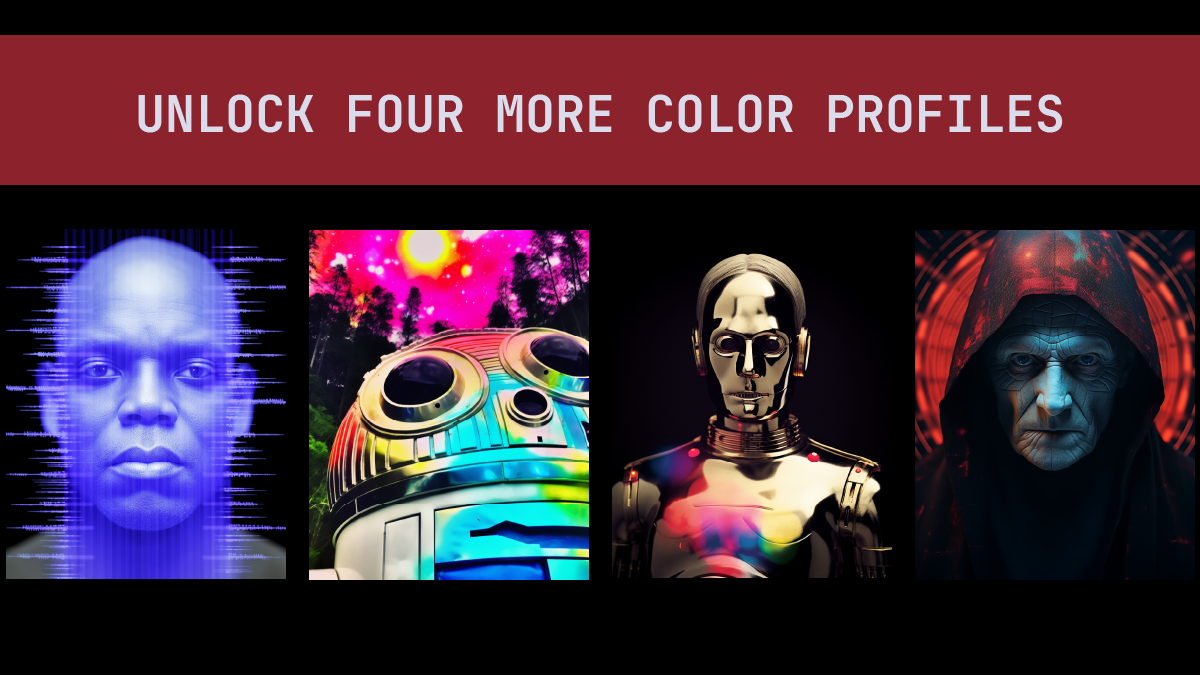
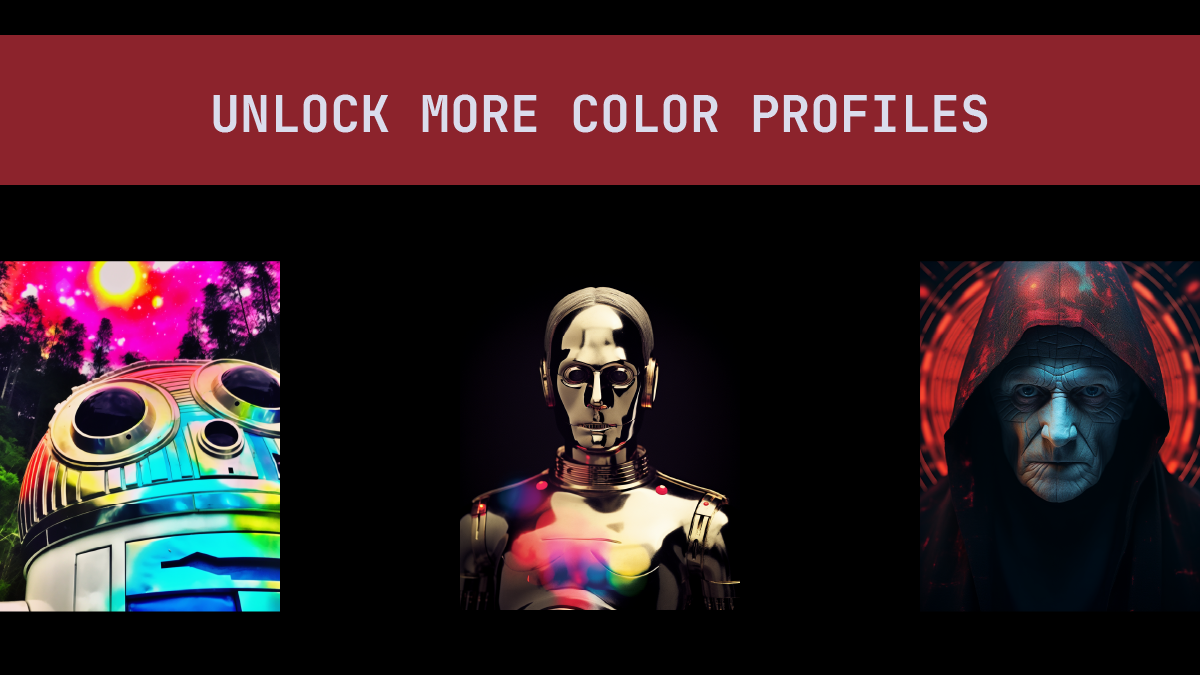
new character theme introduction: Mace Windstorm; updated README accordingly

diff --git a/README.md b/README.md
@@ -11,11 +11,37 @@ A VSCode theme extension that brings the legendary galactic saga characters to y
 
 ![Header Image](./artworks/header.png)
 
+## Usage 🚀
+
+Switch between different character themes to experience the unique ambiance each one brings to your coding environment. Preview the themes below to find your favorite!
+
+![Darth Invader Theme](./artworks/darthInvader.png)
+
+![Luke Skywriter Theme](./artworks/lukeSkywriter.png)
+
+![Storm Tracker Theme](./artworks/stormTracker.png)
+
+![Yodan Theme](./artworks/Yodan.png)
+
+![Boba Fret Theme](./artworks/bobaFret.png)
+
+![Mace Windstorm Theme](./artworks/maceWindstorm.png)
+
+![Unlock more profiles](./artworks/moreProfiles.png)
+
+- **~~Mace Windstorm: unlocked~~** 🌠
+<br>
+- **Artie-Detoo: 500 installs, or three 5 star ratings. 🛸**
+<br>
+- **Cee-Threepo: Details pending. Reach two cosmic achievements to access. 🤖** 
+<br>
+- **Darth Insidious: Details pending. Reach three cosmic achievements to access. 🪐** 
+<br>
+
 ## Table of Contents
 
 - [Installation](#installation)
 - [Features](#features)
-- [Usage](#usage)
 - [Support](#support)
 - [Contributing](#contributing)
 - [License](#license)
@@ -33,31 +59,6 @@ A VSCode theme extension that brings the legendary galactic saga characters to y
 ## Features 🌟
 
 Galactic Glow is a multi-bundle theme extension created with the intention to visualize the essence of iconic galactic saga characters via coloring. Each character theme offers a unique coding ambiance to enhance your VSCode experience.
-
-## Usage 🚀
-
-Switch between different character themes to experience the unique ambiance each one brings to your coding environment. Preview the themes below to find your favorite!
-
-![Darth Invader Theme](./artworks/darthInvader.png)
-
-![Luke Skywriter Theme](./artworks/lukeSkywriter.png)
-
-![Storm Tracker Theme](./artworks/stormTracker.png)
-
-![Yodan Theme](./artworks/Yodan.png)
-
-![Boba Fret Theme](./artworks/bobaFret.png)|
-
-![Unlock more profiles](./artworks/moreProfiles.png)
-
-- **Mace Windstorm: 500 installs, or one 5 star rating. 🌠**
-<br>
-- **Artie-Detoo: Details pending. Reach a cosmic achievement to access. 🛸**
-<br>
-- **Cee-Threepo: Details pending. Reach two cosmic achievements to access. 🤖** 
-<br>
-- **Darth Insidious: Details pending. Reach three cosmic achievements to access. 🪐** 
-<br>
 
 
 ## Support 🚑
